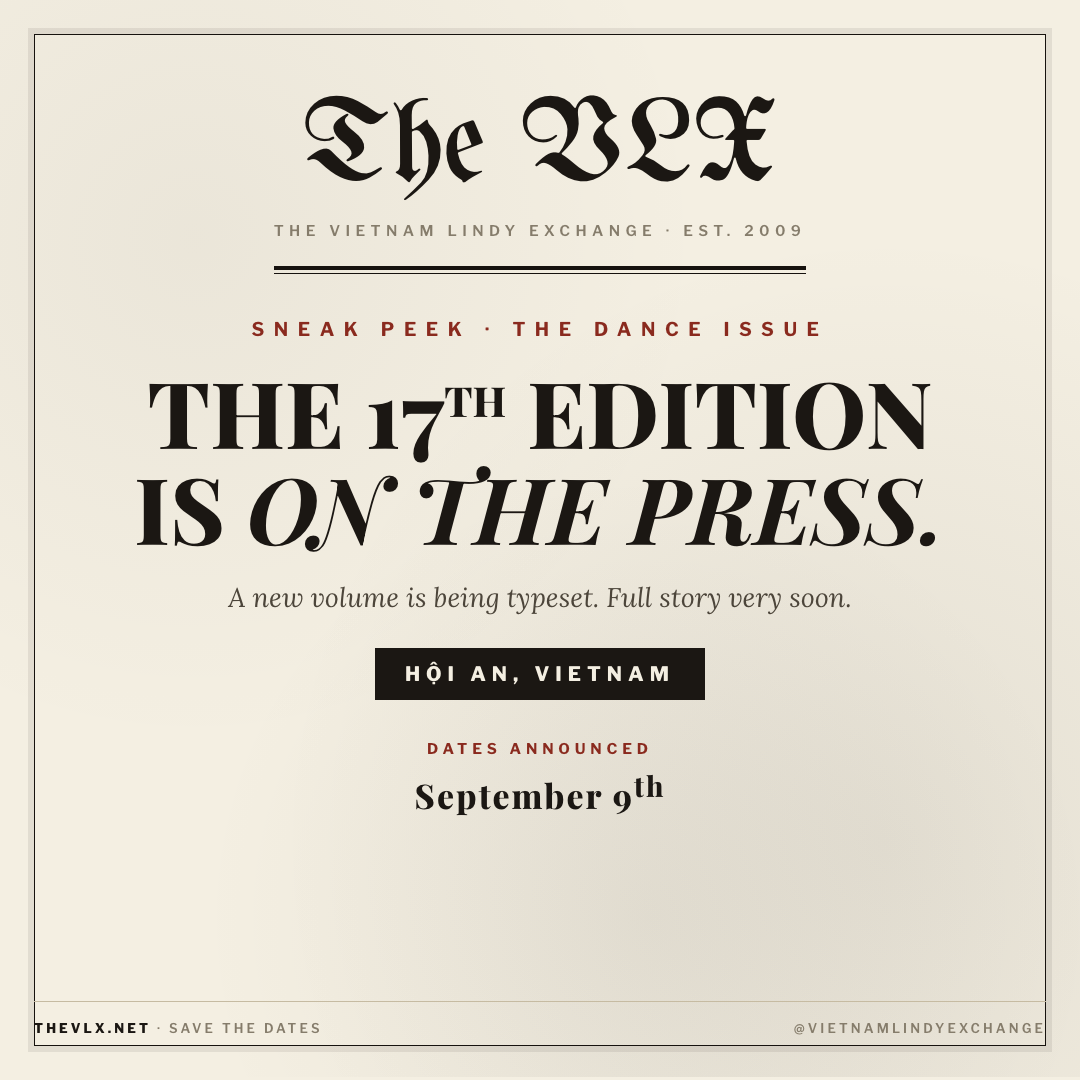
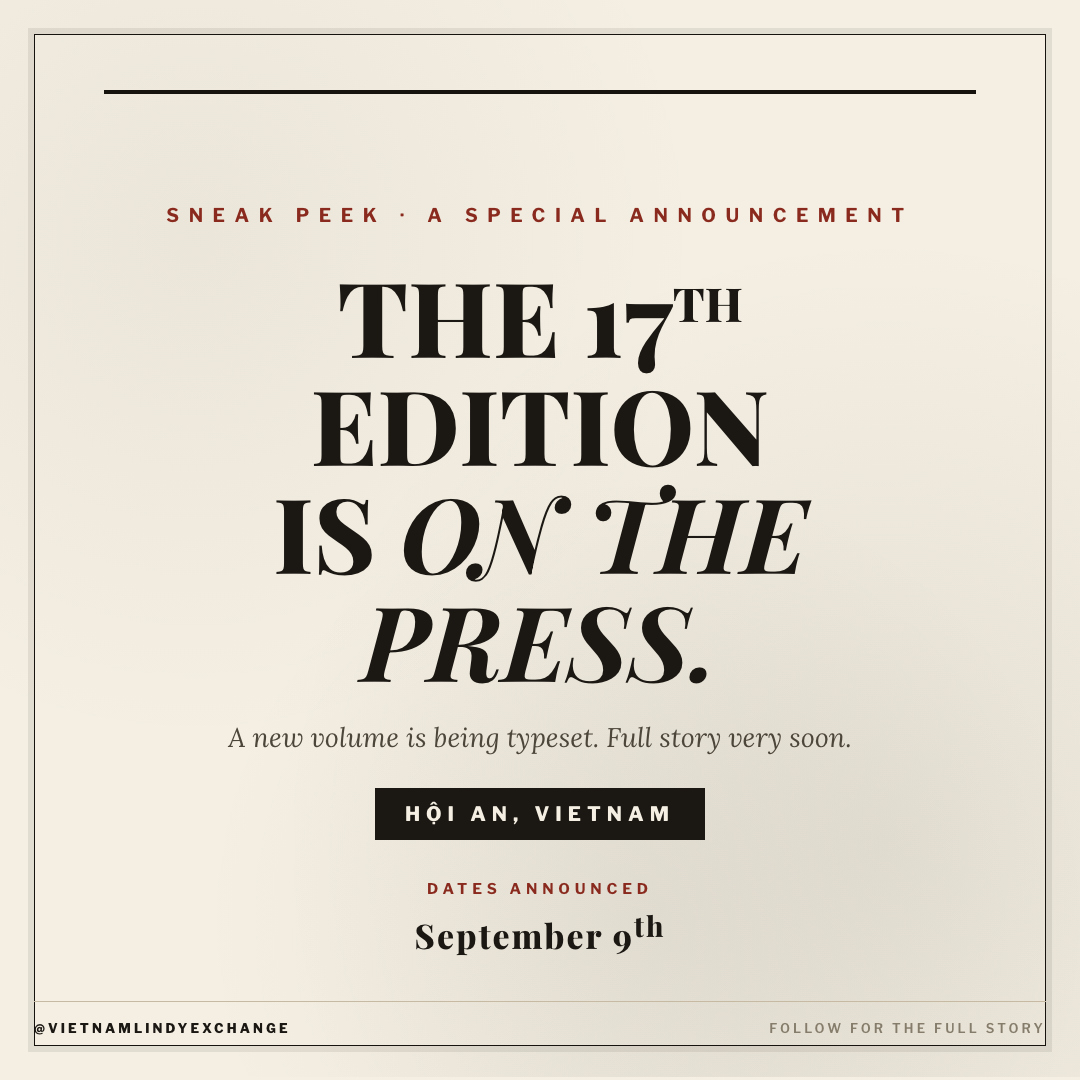
Sneak peek: remove unreleased masthead branding and website URL

diff --git a/brand/social/sneak-peek.html b/brand/social/sneak-peek.html
@@ -28,8 +28,8 @@
   .mast-sub{font-family:var(--sans);font-size:15px;font-weight:600;letter-spacing:.36em;text-transform:uppercase;color:var(--faint);margin-top:14px}
   .dbl{border-top:4px solid var(--rule);border-bottom:1px solid var(--rule);height:8px;margin:26px 0 0}
 
-  .eyebrow{font-family:var(--sans);font-size:19px;font-weight:700;letter-spacing:.5em;text-transform:uppercase;color:var(--red);margin:44px 0 22px}
-  .cover-title{font-family:var(--display);font-weight:800;font-size:92px;line-height:1.04;text-transform:uppercase}
+  .eyebrow{font-family:var(--sans);font-size:19px;font-weight:700;letter-spacing:.5em;text-transform:uppercase;color:var(--red);margin:84px 0 34px}
+  .cover-title{font-family:var(--display);font-weight:800;font-size:104px;line-height:1.04;text-transform:uppercase}
   .cover-title em{font-style:italic;font-weight:700}
   .deck{font-family:var(--serif);font-style:italic;font-size:27px;color:var(--soft);margin-top:26px}
 
@@ -49,13 +49,9 @@
   <div class="grain"></div>
   <div class="frame"></div>
   <div class="inner">
-    <div class="top">
-      <div class="mast">The VLX</div>
-      <div class="mast-sub">The Vietnam Lindy Exchange &middot; Est. 2009</div>
-      <div class="dbl"></div>
-    </div>
+    <div class="top-rule"></div>
 
-    <div class="eyebrow">Sneak peek &middot; The Dance Issue</div>
+    <div class="eyebrow">Sneak peek &middot; A special announcement</div>
 
     <div class="cover-title">
       The 17<sup style="font-size:.45em">th</sup> edition<br>
@@ -71,8 +67,8 @@
   </div>
 
   <div class="foot">
-    <span><b>thevlx.net</b> · Save the dates</span>
-    <span>@vietnamlindyexchange</span>
+    <span><b>@vietnamlindyexchange</b></span>
+    <span>Follow for the full story</span>
   </div>
 </body>
 </html>
